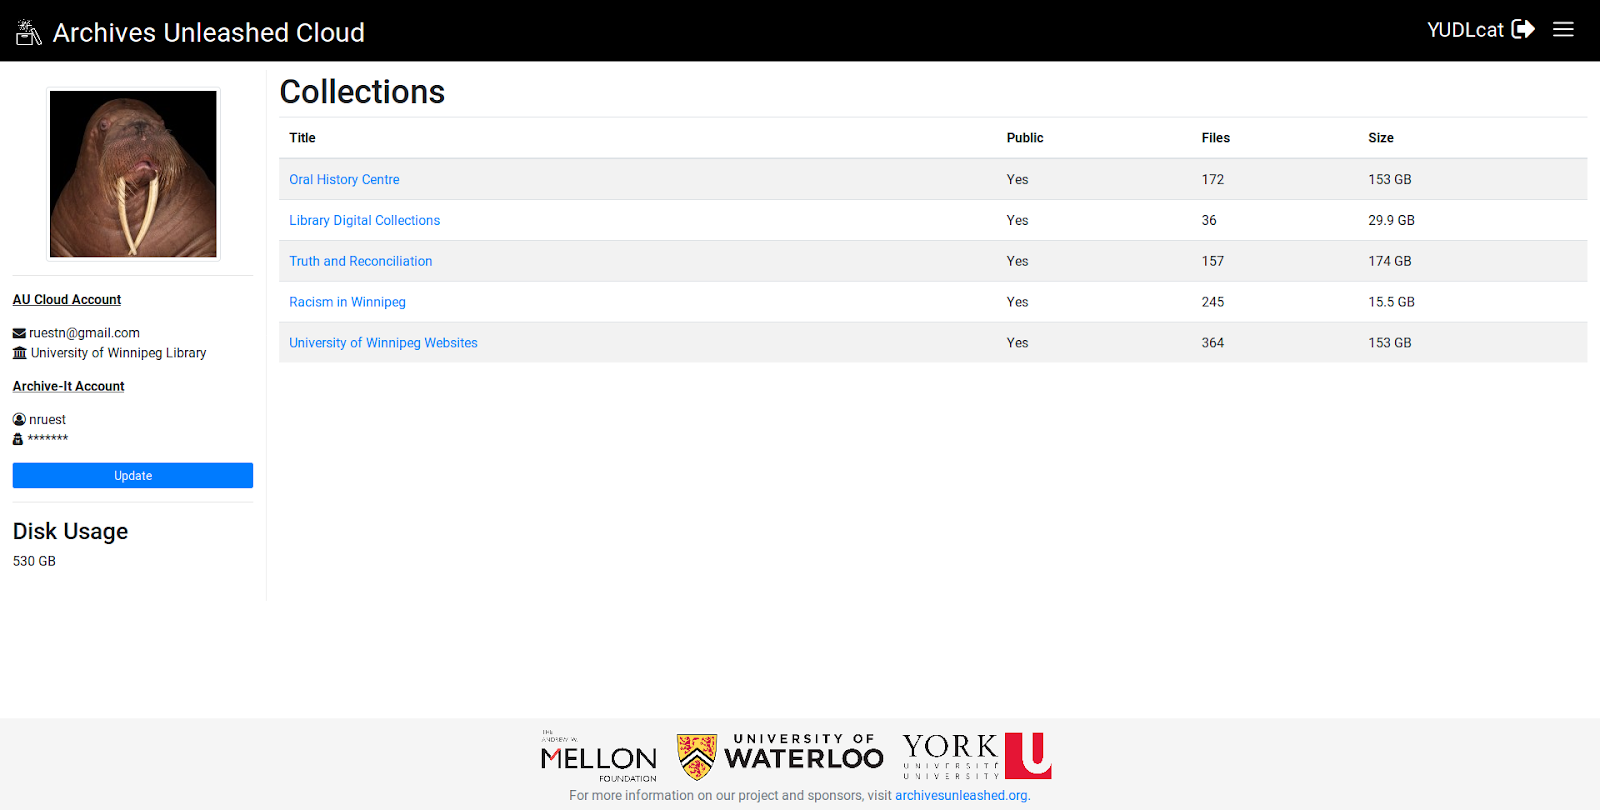
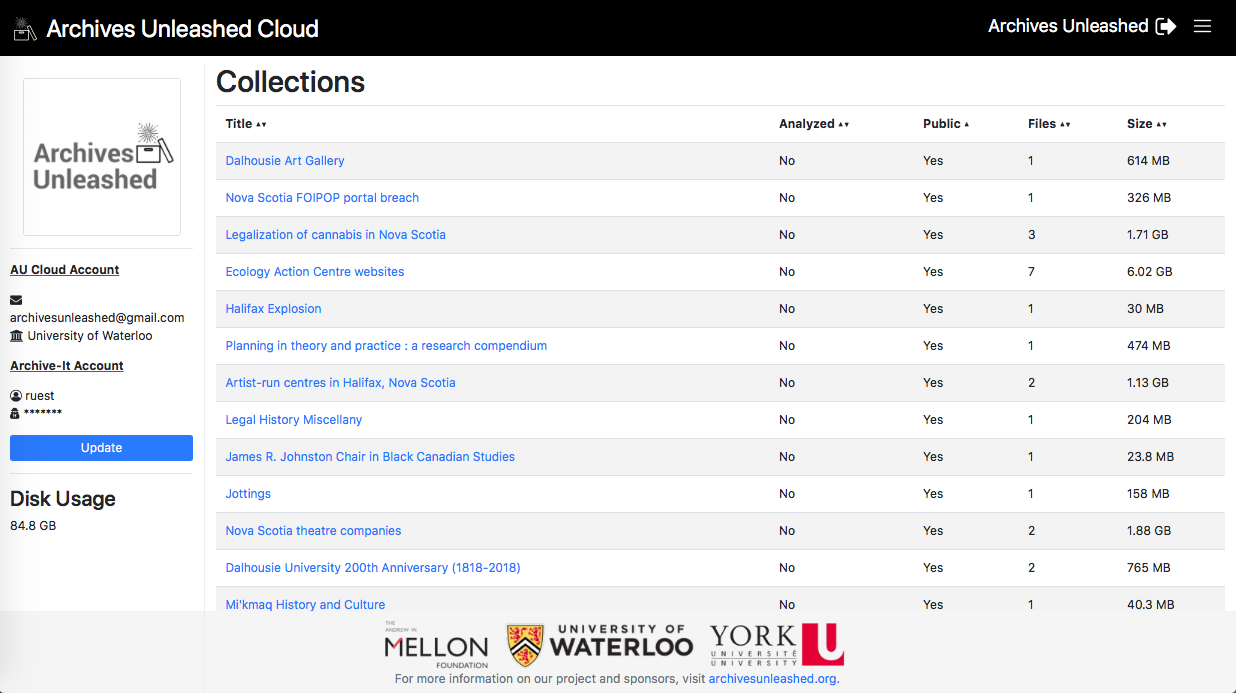
added new screenshot and updated content on GraphPass

diff --git a/content/cloud/index.md b/content/cloud/index.md
@@ -12,7 +12,7 @@ Imagine a world where you could access and analyze a web archives file in as few
 
 AUK is an open source cloud-based analysis tool that helps researchers and scholars conduct web archive analysis. It supports the priorities of accessibility and usability of web archives by providing users a web-based front end to access the [Archives Unleashed Toolkit](/aut). It has been primarily developed by our project co-investigator and developer, [Nick Ruest](http://ruebot.net/).
 
-TL;DR? You can use the Cloud at <http://cloud.archivesunleashed.org>
+You can use the Cloud at <http://cloud.archivesunleashed.org>
 
 ## Functionalities
 
@@ -31,10 +31,10 @@ In addition, AUK's [documentation](http://cloud.archivesunleashed.org/documentat
 
 Let's take a tour of how AUK works. Once a user signs up to [cloud.archivesunleashed.org](http://cloud.archivesunleashed.org/), they enter their Archive-It credentials, which are salted and encrypted. Those credentials are then used to sync their Archive-It collections with AUK using Archive-It's [WASAPI](https://github.com/WASAPI-Community/data-transfer-apis) endpoint. This is done as a background job, and once it is complete, it emails the user to let them know that their Archive-It collections are synced and available for further analysis on their dashboard. 
 
-The AUK dashboard provides some basic information about each collection: title, if it is publicly available (in Archive-It), the number of ARC/WARCs in the collection, and the size of the collection. You can see this below!
+The AUK dashboard provides some basic information about each collection: title, if the collection has been analyzed in AUK yet, if it is publicly available (in Archive-It), the number of ARC/WARCs in the collection, and the size of the collection. You can see this below!
 
 ![Cloud collections](/images/collections.png)
-
+ 
 From the dashboard, users can select a collection to download, which will trigger a number of background jobs. The first job uses data gathered from the WASAPI endpoint to download and verify each ARC/WARC file to our AUK instance. Once the entire collection is downloaded, an automatic email is generated to notify the user that the collection has been downloaded, and analysis will begin. 
 
 The analysis process then triggers an Apache Spark job and uses AUT to create a basic set of derivatives:
@@ -48,9 +48,21 @@ Here is a completed collection page:
 
 ![Cloud collections](/images/analysis.png)
 
-In addition, we use [Graphpass](https://github.com/archivesunleashed/graphpass) to help to create a simple network visualization powered by [Sigma js](http://sigmajs.org/) on the collection dashboard, and display a table of the top 10 domains occurrences in a given collection.
+In addition, we use [Graphpass](https://github.com/archivesunleashed/graphpass) to help to create a simple network visualization powered by [Sigma js](http://sigmajs.org/) on the collection dashboard. Sigma is a JavaScript library that assists in drawing and displaying graphs. 
+
+GraphPass produces visualization-related data in the network files such as color, position and size based on common social network algorithms. In the networks each node (dot) represents a domain (i.e. all of the URLs within a domain such as “yorku.ca” or “newyorktimes.com”) and each edge (line) represents a link from one node to another.
+
+Users can explore and interact with the network using the helper buttons in the top left corner of the network window. 
+
+* Full Screen - opens up the network to full screen for easier interaction
+* Zoom in/out - zooms the camera into the network and away from it
+* Refresh - brings the network diagram back to its original state
+* Scale up and scale down - allows users to see more or less node labels in the network
+
 
 ![Full graph](/images/graph.png)
+
+A few cautionary notes on “scale up” and “scale down” are in order. With website networks, some sites have so many links compared to the others, that they obscure everything else. AUK’s scale-up feature uses **logarithmic transformation** to make the graph a bit easier to read. For example, six nodes with size values 1, 10, 100, 1000, 10000 and 1,000,000,000 can be transformed using a base 10 logarithm to produce new sizes 0, 1, 2, 3, 5, & 9, making the node sizes much closer together in size. 
 
 Future development will focus on filtering further down on a collection, and integrating the new [DataFrame](https://spark.apache.org/docs/latest/sql-programming-guide.html) functionality we're adding to AUT via a [JDBC](https://en.wikipedia.org/wiki/JDBC_driver) connector.
 
